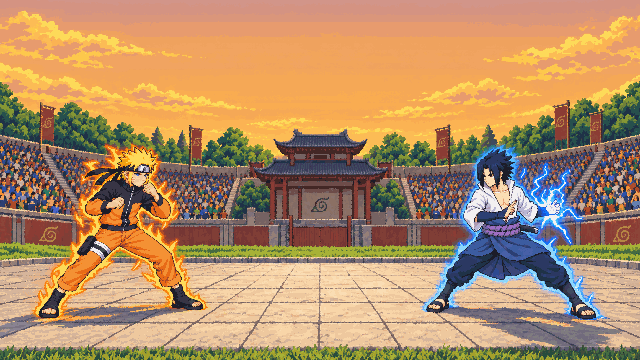
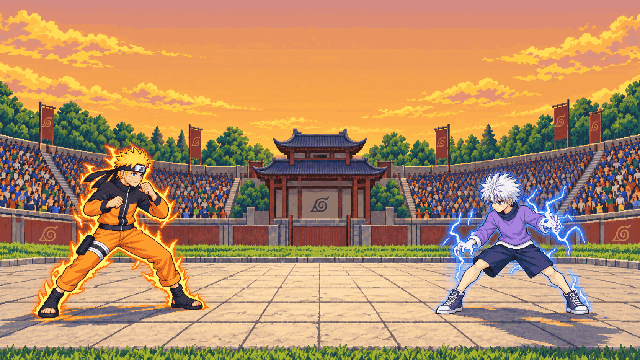
art(ui): ship the Naruto-vs-Killua title art v02
Codex's title_art v02, approved by the user in art/REVIEW.md, replaces the Naruto-vs-Sasuke image. The
crowd-sprite overlay experiment was dropped at the user's request; the static painted audience stays.
Packed into public/ui at 128 colors with zero warnings (a scratch repack is byte-identical).

Refs: ART-UI-02

diff --git a/art/ui/PROMPTS.md b/art/ui/PROMPTS.md
@@ -41,21 +41,22 @@ Background: flat solid magenta #FF00FF everywhere. No characters, no scenery, no
 ## Title-screen key art
 
 Save as: `raw/title_art_vNN.png` -> approved one cleaned into `final/title_art.png` (640x360).
-Attach: both fighters' approved spec v2 `reference/model_sheet.png` files (naruto and sasuke). Do it
-only after both are approved. This is the only prompt that puts both characters in one image.
+Attach: the approved spec v2 `reference/model_sheet.png` files for Naruto and Killua. When revising
+the current composition, also attach `raw/title_art_v01.png` as the scene reference. This is the
+only prompt that puts two fighters in one image; the crowd stays painted into the static title art.
 
 ```text
 Hi-res pixel art key art for the title screen of an anime arena fighting game, 16:9 wide image, HD-2D diorama look.
 Scene: a large square tournament ring of pale tiled stone, seen from slightly above and in front, surrounded by short mowed grass. Behind it, a traditional Japanese temple with curved roofs, a big wooden gate, green trees, and packed stands of cheering spectators in many colors. Warm late-afternoon light, golden sky with a few clouds.
-On the ring, the two fighters from the attached model sheets face off in fighting stances, matching their designs, proportions and colors exactly. Both are drawn with realistic anime proportions, about 6.5 heads tall, athletic teenage builds, serious and intense expressions; not chibi, not super-deformed:
-on the LEFT, facing right: a lean, athletic young ninja of about 16 with a confident, determined air; thick spiky golden-blond hair with spiky bangs, bright blue eyes, three thin whisker-like marks on each cheek; a long black cloth forehead band with a polished steel plate engraved with a leaf-swirl symbol; a black-and-orange zip-up track jacket (black shoulders, upper chest, upper sleeves and high collar, orange body and lower sleeves, a red spiral emblem on the back); orange pants; a small holster on his right thigh; black open-toed ninja sandals; with a flaring orange aura;
-on the RIGHT, facing left: a lean, pale young ninja of about 16 with a cold, calm, precise air; black hair with a dark-blue sheen, spiky and swept back at the back of his head, with long bangs framing both sides of his face down past the jaw; sharp, narrow dark eyes; no forehead band; a white long-sleeved shirt with a tall stand-up collar, worn open in a deep V to mid-chest, with a small red-and-white round paper-fan emblem on the back of the collar; a thick purple rope belt tied in a big bow at the back; a dark navy cloth wrapped around his waist and hanging to his knees over dark navy pants; dark navy arm guards on his forearms; black open-toed ninja sandals; a straight sword in a black sheath tucked horizontally through the rope belt at the small of his back; with crackling blue lightning in one hand and a blue aura.
+On the ring, the two fighters from the attached model sheets face off in fighting stances, matching their designs, proportions and colors exactly. Both have serious anime proportions and intense expressions, never chibi: the older ninja is about 6.5 heads tall, while the younger assassin is about 6 heads tall and visibly shorter.
+on the LEFT, facing right: a lean athletic young ninja of about 16 with bright blue eyes and three thin whisker-like marks on each cheek; short compact golden-blond triangular spikes, bangs ending above or at the forehead plate, temple tufts ending near the upper ears, no cheek- or jaw-length golden locks; a black cloth forehead band with two long BLACK cloth tails and a polished steel leaf-swirl plate; a black-and-orange zip-up track jacket with a high black collar, orange pants, a small right-thigh holster, black open-toed ninja sandals; with a flaring orange aura;
+on the RIGHT, facing left: a slim, wiry, pale boy of about 13, visibly shorter and narrower than the left fighter, with sharp blue catlike eyes and fluffy spiky silver-white hair; a loose lavender-purple long-sleeved shirt with a dark-navy rolled collar over a white undershirt visible at the cuffs and hem; baggy dark-navy shorts ending above the knees, bare shins, purple high-top sneakers with white soles and laces; low relaxed assassin stance with hard-edged blue-white lightning around his hands. No white open-collar shirt, rope belt, sword or sandals.
 Composition: the fighters stand in the lower two thirds; keep the top third of the image as open sky with no important details (a logo goes there). Dramatic but readable.
 Crisp hard pixel art: dark outlines on the characters, 3-4 tone cel shading, light glows and auras drawn as hard-edged stepped shapes, no anti-aliasing, no photographic blur, no text, no logo, no frame.
 ```
 
 The two fighter descriptions follow the `## One-paragraph look` sections of
-`art/characters/naruto/CHARACTER.md` and `art/characters/sasuke/CHARACTER.md` (spec v2, Shippuden).
+`art/characters/naruto/CHARACTER.md` and `art/characters/killua/CHARACTER.md` (spec v2).
 Before running this prompt, check them against those sections and paste the current text if a brief
 changed; when the roster changes, paste the new characters' `## One-paragraph look` text in their
 place.

diff --git a/art/TRACKER.md b/art/TRACKER.md
@@ -313,7 +313,7 @@ cleaned into `art/ui/final/`.
 | asset | size | status | version | approved | notes |
 |---|---|---|---|---|---|
 | ui/final/logo.png ("GCD TOURNEY" + 天下一武闘祭) | ~480x180 | approved | v01 | v01 | Fitted candidate in ui/review; final approval and engine hooks pending. User approved all existing world art on 2026-10-10 (chat with Claude); packed and shipped by Claude. |
-| ui/final/title_art.png (title key art) | 640x360 | approved | v01 | v01 | Fitted candidate in ui/review; final approval and engine hooks pending. User approved all existing world art on 2026-10-10 (chat with Claude); packed and shipped by Claude. |
+| ui/final/title_art.png (title key art) | 640x360 | approved | v02 | v02 | Naruto vs Killua v02 approved; title screen uses its static painted audience, per user preference. |
 
 ## World art (ADR 0008)
 
@@ -438,7 +438,7 @@ World batches are reviewed together in [REVIEW.md](REVIEW.md); the claim queue t
 | npc | npc-monk-b | 3 | approved | v01 | v01 | [Files/QA](queue/reviews/npc-monk-b.md); final review pending User approved all existing world art on 2026-10-10 (chat with Claude); packed and shipped by Claude. |
 | npc | npc-vendor | 2 | approved | v02 | v02 | [Files/QA](queue/reviews/npc-vendor.md); final review pending User approved all existing world art on 2026-10-10 (chat with Claude); packed and shipped by Claude. |
 | ui | ui-logo | 1 | approved | v01 | v01 | [Files/QA](queue/reviews/ui-logo.md); final review pending User approved all existing world art on 2026-10-10 (chat with Claude); packed and shipped by Claude. |
-| ui | ui-title_art | 1 | approved | v01 | v01 | [Files/QA](queue/reviews/ui-title_art.md); final review pending User approved all existing world art on 2026-10-10 (chat with Claude); packed and shipped by Claude. |
+| ui | ui-title_art | 1 | approved | v02 | v02 | [Files/QA](queue/reviews/ui-title_art.md); Naruto vs Killua title art approved with its painted audience. |
 | vfx | vfx-spark | 1 | approved | v01 | v01 | [Files/QA](queue/reviews/vfx-spark.md); final review pending User approved all existing world art on 2026-10-10 (chat with Claude); packed and shipped by Claude. |
 | vfx | vfx-burst | 1 | approved | v01 | v01 | [Files/QA](queue/reviews/vfx-burst.md); final review pending User approved all existing world art on 2026-10-10 (chat with Claude); packed and shipped by Claude. |
 | vfx | vfx-ring | 1 | approved | v02 | v02 | [Files/QA](queue/reviews/vfx-ring.md); final review pending User approved all existing world art on 2026-10-10 (chat with Claude); packed and shipped by Claude. |

diff --git a/art/queue/reviews/ui-title_art.md b/art/queue/reviews/ui-title_art.md
@@ -1,18 +1,23 @@
 # ui-title_art
 
-Final approval pending.
+Naruto-vs-Killua v02 is approved and ships. V01 remains in the review history.
 
-Fitted and palette-cleaned preview inspected; UI integration awaits TOOL-011/ENG-025.
+The v02 640x360 palette fit packed with zero warnings and was promoted to `art/ui/final/title_art.png`.
 
-Fitted candidate: [preview](../../../art/ui/review/title_art_palette_v01.png).
+Approved asset: [raw v02](../../../art/ui/raw/title_art_v02.png), [128-color 640x360 fit](../../../art/ui/review/title_art_palette_v02.png).
+
+The title screen uses the static painted audience in the approved title art. The added crowd-sprite overlay was removed at the user's request.
 
 [Audit A](../final-qa-crowd-a.md) / [Audit B](../final-qa-crowd-b.md) / [Other audit](../final-qa-other.md) / [Cleanup verification](../final-qa-cleanup.md).
 
-Worker/redo notes: 2 imagegen attempts using both approved fighter model sheets; chose edited second at 1672x941 (~16:9). Full-body orange-left/blue-right face-off, Shippuden outfits, auras, tiled ring, grass, temple, gate, packed stands and trees. Top ~35% is mostly sky for logo; fighters begin below it. Raw only saved per queue; final 640x360 awaits lead/approval. Generator produced 449765 colors and smooth sky shading rather than strictly hard limited pixels; inspect at 640x360.
+V02 QA: used the approved Naruto and Killua model sheets and the v01 arena composition. Short golden hair and the younger boy's purple-shirt/shorts/sneakers silhouette read at 640x360; the top third remains available for the logo. Raw generator output is 1672x941; the nearest-neighbor fit was reduced to 128 colors without dithering. User approved v02, then asked to keep only the Naruto and Killua image update. The title-screen crowd overlay and cheering animation were removed.
+
+V01 history: two imagegen attempts using the original Naruto and Sasuke model sheets; the edited second at 1672x941 was fitted and palette-cleaned, then approved and shipped. Its generic crowd and Naruto's long golden side locks are superseded by v02.
 
 | Item | Current candidate | Decision |
 |---|---|---|
-| title_art | [v01](../../../art/ui/raw/title_art_v01.png) | final review pending |
+| title_art | [v02](../../../art/ui/raw/title_art_v02.png) | approved and packed: short-haired Naruto versus shorter Killua; static painted stands |
+| title_art | [v01](../../../art/ui/raw/title_art_v01.png) | approved earlier; superseded by v02 |
 
 ## Rejected history
 

diff --git a/art/ui/README.md b/art/ui/README.md
@@ -27,7 +27,7 @@ art/ui/
 | asset | final file | size | background | status |
 |---|---|---|---|---|
 | logo: "GCD TOURNEY" + subtitle 天下一武闘祭 | `final/logo.png` | about 480 x 180 (exact size flexible; keep it crisp at 1x) | transparent | todo |
-| title-screen key art | `final/title_art.png` | 640 x 360 (16:9, the game's internal resolution; shown at integer scale) | opaque | todo |
+| title-screen key art | `final/title_art.png` | 640 x 360 (16:9, the game's internal resolution; shown at integer scale) | opaque | v02 approved |
 | title background only (optional) | `final/title_bg.png` | 640 x 360 | opaque | optional, for a layered/animated title later |
 
 ### Logo
@@ -62,9 +62,11 @@ Alternatively, keep the subtitle as the styled HTML text the title screen alread
 
 ### Title key art
 
-- The two starter fighters face off in the tournament ring: Naruto on the left facing right,
-  Sasuke on the right facing left, in fighting stances, auras flaring (orange vs blue). Both in their
-  **Shippuden** designs at about 6.5 heads tall (spec v2), serious expressions; not chibi.
+- Two fighters from different series face off in the tournament ring: short-haired Shippuden Naruto
+  on the left facing right, Killua on the right facing left, in fighting stances with orange chakra
+  and blue-white lightning. Naruto has short compact blond spikes with no cheek-length locks;
+  Killua is a visibly shorter, slim boy in a purple top, navy shorts and high-top sneakers. Both
+  keep their approved serious anime proportions; not chibi.
 - Setting (matches the in-game arena): a tiled stone tournament ring, mowed grass around it,
   a temple behind, packed cheering crowd stands, a big gate, trees, warm late-afternoon sky.
 - Composition: keep the **top 35 % free** (sky) for the logo; fighters in the lower two thirds;
@@ -72,7 +74,9 @@ Alternatively, keep the subtitle as the styled HTML text the title screen alread
 - HD-2D diorama look in crisp pixel art: light, bloom and glows drawn as hard-edged stepped
   shapes, no photographic blur.
 - The fighters must match their approved model sheets (attach both `reference/model_sheet.png`
-  files). This is the only image that shows both characters together; sprite images never do.
+  files). The title screen uses the static painted audience in this image, per the user's
+  preference. This is the only image that shows two fighters together; sprite images
+  never do.
 
 ## Cleaning and sizes
 

diff --git a/art/REVIEW.md b/art/REVIEW.md
@@ -53,6 +53,7 @@ Status values: `needs review` · `approved` · `rejected`.
 
 | date | character | asset | file | version | status | what changed | QA notes |
 |---|---|---|---|---|---|---|---|
+| 2026-10-09 | ui | ui-title_art | [raw](ui/raw/title_art_v02.png) · [128-color fit](ui/review/title_art_palette_v02.png) | v02 | approved | Replaces the old Naruto-versus-Sasuke title image with short-haired Naruto versus Killua. | User approved v02, then requested the simpler intro with only the fighter update. Both approved model sheets were used as identity references; Naruto's blond temple tufts stop at the ears, and Killua is visibly shorter in a purple top, shorts and sneakers. Raw 1672x941; nearest-neighbor 640x360 final, 128 colors. The added crowd-sprite overlay and cheering animation were removed; the title uses the image's painted audience. |
 | 2026-10-09 | naruto | ko | [ko_v02.png](characters/naruto/raw/_rejected/ko_v02.png) | v02 | rejected | QA correction; original source retained | Superseded during QA by v03; source retained. Earlier pose had unsuitable aspect ratio. |
 | 2026-10-09 | naruto | airHeavy | [airHeavy_v01_A.png](characters/naruto/raw/_parts/_rejected/airHeavy_v01_A.png) | v01 | rejected | QA correction; original source retained | Part A corrected in v02 to remove oversized decorative slash. No v01 final strip was assembled. |
 | 2026-10-09 | naruto | specialForward | [specialForward_v01_A.png](characters/naruto/raw/_parts/_rejected/specialForward_v01_A.png) | v01 | rejected | QA correction; original source retained | Part A feet overlapped; corrected in v02, with unchanged B copied into v02. No v01 final strip was assembled. |

diff --git a/docs/TASKS.md b/docs/TASKS.md
@@ -125,7 +125,7 @@ VFX cells (128 px, ppu 56) and UI sizes didn't change in spec v2. Raws are versi
 | ART-VFX-04 | Projectile/signature set: shuriken, fire, orb (Rasengan) | Codex | todo | full color |
 | ART-VFX-05 | Pack (`npm run sprites vfx`), in-game QA, REVIEW.md rows, update TRACKER | Codex | todo | missing effects fall back to procedural |
 | ART-UI-01 | Title logo "GCD TOURNEY" (+ 天下一武闘祭 subtitle) | Codex | todo | `art/ui/PROMPTS.md`; versioned `_vNN`, user approves |
-| ART-UI-02 | Title / menu background art | Codex | todo | versioned `_vNN`, user approves |
+| ART-UI-02 | Title / menu background art | Codex | done | 2026-10-10: user-approved Naruto-vs-Killua `title_art` v02 shipped (static painted audience; the crowd-sprite overlay experiment was dropped); 128-color fit in public/ui, zero warnings. PR art/title-art-v02 |
 | ENG-013 | Use custom logo and title art in menus when present | Claude | todo | after ART-UI-01/02 |
 
 

diff --git a/CHANGELOG.md b/CHANGELOG.md
@@ -11,6 +11,8 @@ Fixed, Security. Reference task ids and ADRs where useful.
 
 ## [Unreleased]
 
+- Title screen: new Naruto-vs-Killua key art (`title_art` v02, approved by the user) replaces Naruto vs Sasuke; static painted audience (ART-UI-02).
+
 - Naruto final batch approved by the user: all 42 animations and three UI assets; promoted UI sources, preserved pose/reach QA notes, and handed gameplay integration to Claude.
 
 - Naruto complete candidate batch for one final review: 40 new animations and three UI images, completing 42 animations / 175 frames. Corrected pose separation, dash placement, knockout and cut-in; 48-color atlas, frame-local hand boxes, and phone-friendly playback review (ART-NAR-FINAL).
